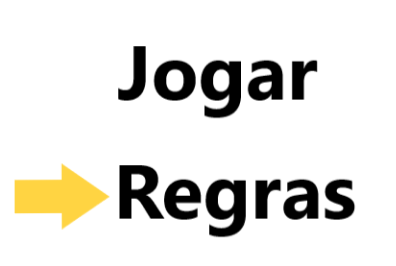
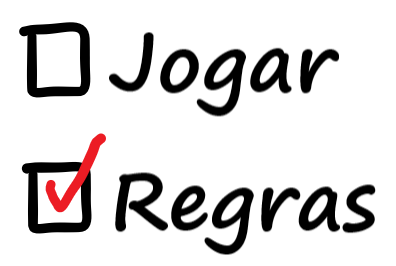
25/06

Changed region(s): [[0.0303, 0.4812, 0.9697, 0.9624], [0.2727, 0.1203, 0.8788, 0.4511], [0.0303, 0.0602, 0.2424, 0.391]]

diff --git a/ProjetoFinal/src/jogo/Vitoria.java b/ProjetoFinal/src/jogo/Vitoria.java
@@ -31,9 +31,9 @@ public class Vitoria extends Modo {
 
 	public void pintarTela(Graphics g) {
 	    g.drawImage(img, 0, 0, null);
-        Font f = new Font("Comic Sans MS", Font.BOLD, 100);
+        Font f = new Font("Comic Sans MS", Font.BOLD, 60);
         g.setFont(f);
-	    g.drawString("Tempo: "+Double.toString(tempo),100, 100);
+	    g.drawString("Tempo: "+Double.toString(tempo),600, 700);
 	}
 
 	public void loop() {}

diff --git a/ProjetoFinal/src/jogo/GameOver.java b/ProjetoFinal/src/jogo/GameOver.java
@@ -31,9 +31,9 @@ public class GameOver extends Modo{
 
 	public void pintarTela(Graphics g) {
 	    g.drawImage(img, 0, 0, null);
-	    Font f = new Font("Comic Sans MS", Font.BOLD, 100);
+	    Font f = new Font("Segoe Print", Font.BOLD, 55);
         g.setFont(f);
-	    g.drawString("Tempo: "+Double.toString(tempo),300, 100);
+	    g.drawString(Double.toString(tempo) + " segundos",960, 750);
 	}
 
 	public void loop() {}

diff --git a/ProjetoFinal/src/jogo/MenuPrincipal.java b/ProjetoFinal/src/jogo/MenuPrincipal.java
@@ -52,7 +52,7 @@ public class MenuPrincipal extends Modo implements IJogo{
 	    double altura = tela.getHeight();
         Image imagem = new ImageIcon(background.getScaledInstance((int) largura, (int) altura, 1)).getImage();
         g.drawImage(imagem, 0, 0, null);
-        g.drawImage(meuMenu, 30, 30, null);
+        g.drawImage(meuMenu, 130, 70, null);
 	} 
 
 
